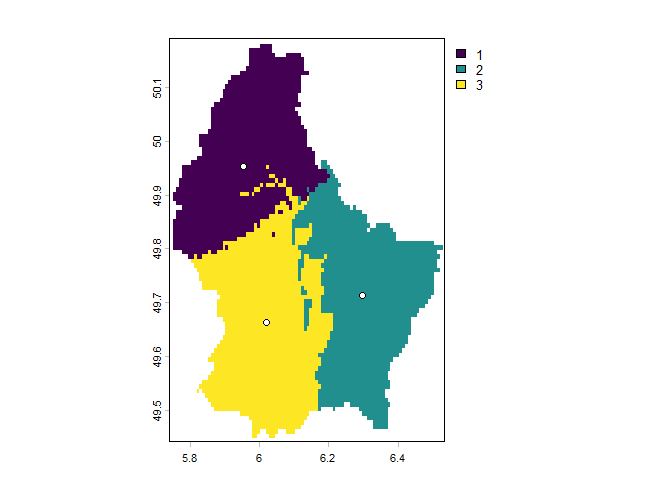
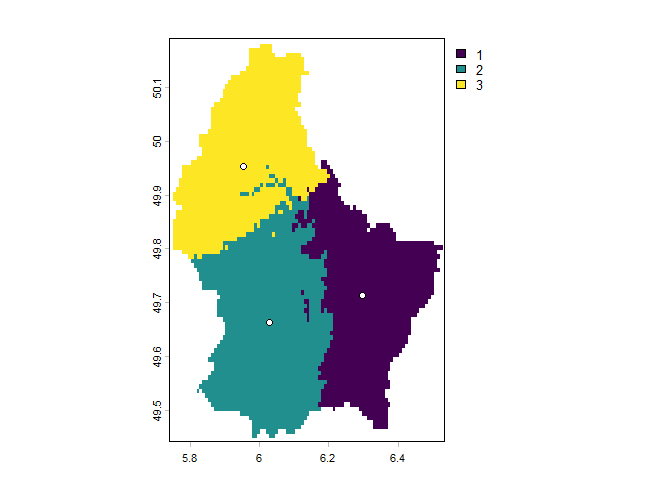
Refactor documentation and code for clarity; unify import statements and improve argument descriptions

Changed region(s): [[0.25, 0.0938, 0.6562, 0.9062]]

diff --git a/README.md b/README.md
@@ -54,8 +54,8 @@ points(
 You can limit where cluster centers are selected by using the
 `candidates` argument.
 
-For `data.frame` input, `candidates` is a numeric vector of row
-indices. Selected centers are restricted to those rows.
+For `data.frame` input, `candidates` is a numeric vector of row indices.
+Selected centers are restricted to those rows.
 
 ``` r
 set.seed(42)
@@ -75,6 +75,10 @@ myclusters_df <- sample_kmeans(
 )
 
 myclusters_df$points
+#>   ID Index
+#> 1  1    15
+#> 2  2    67
+#> 3  3    42
 ```
 
 For point data (`SpatVector` with points), `candidates` can be either a
@@ -101,6 +105,10 @@ myclusters_pts <- sample_kmeans(
 )
 
 myclusters_pts$points
+#>           x          y ID Index
+#> 1 0.5488174 0.09068056  1    11
+#> 2 4.0172342 4.59700985  2   100
+#> 3 2.8191735 2.56777946  3    52
 ```
 
 If candidates do not cover all clusters, fewer centers can be returned.
